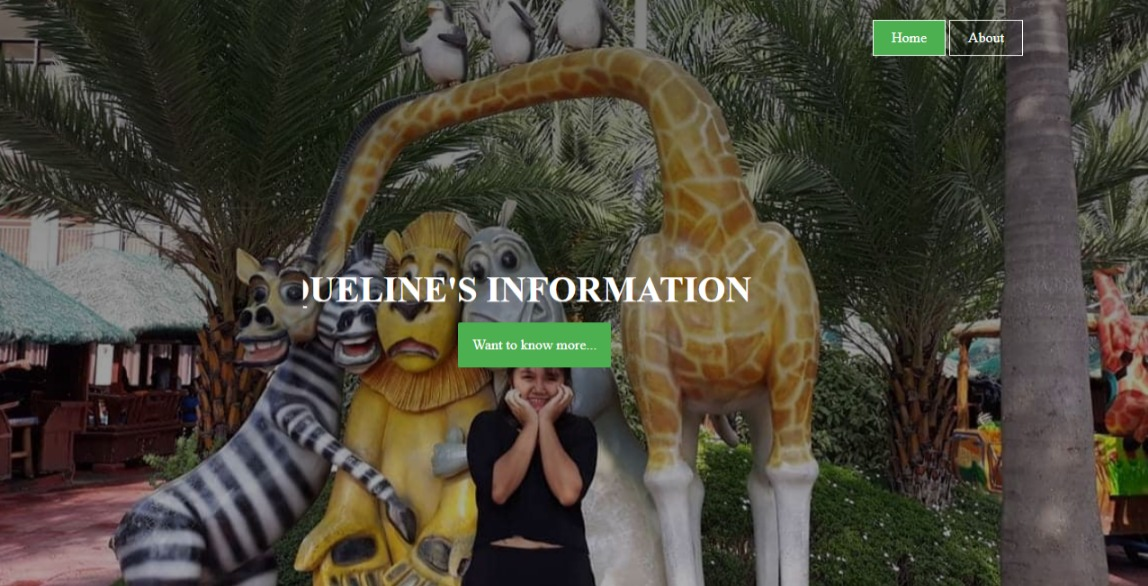
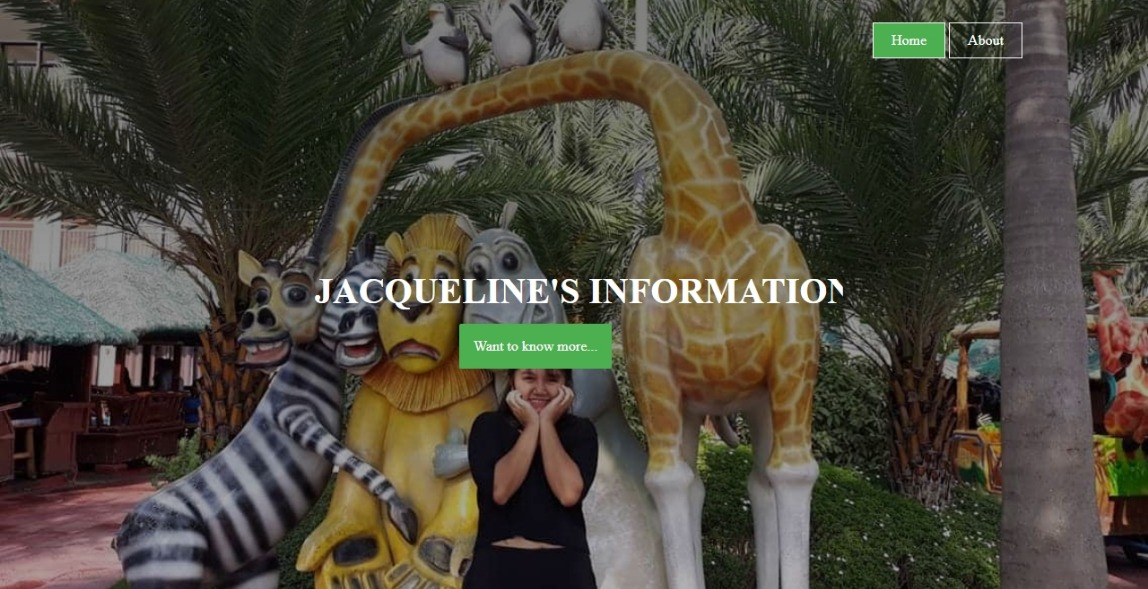
FINAL COMMIT

diff --git a/index.html b/index.html
@@ -6,28 +6,35 @@
 	<link rel="stylesheet" href="style.css">
 	<link rel="preconnect" href="https://fonts.gstatic.com">
 	<link href="https://fonts.googleapis.com/css2?family=Poppins:wght@100;200;300;400;600;700&display=swap" rel="stylesheet">
-	<link rel="stylesheet" href="https://cdn.jsdelivr.net/npm/@fortawesome/fontawesome-free@5.15.3/css/fontawesome.min.css">	
+
+	<script src="https://kit.fontawesome.com/fa968a115a.js" crossorigin="anonymous"></script>
 </head>
 <body>
+	<div class="scroll-up-btn">
+		<i
+	</div>
 	<section class="header">
 		<nav>
 			<a href="index.html"><img src="images/logo.jpg"></a>
-			<div class="nav-links">
+			<div class="nav-links" id="navLinks">
 				<i class="fas fa-times" onclick="hideMenu()"></i>
 			<ul>
 					<li><a href="index.html">HOME</a></li>
-					<li><a href="">ABOUT</a></li>
-					<li><a href="">SKILLS</a></li>
-					<li><a href="">EDUCATION</a></li>
-					<li><a href="">PROJECTS</a></li>
+					<li><a href=".about">ABOUT</a></li>
+					<li><a href="#skills">SKILLS</a></li>
+					<li><a href="#edu">EDUCATION</a></li>
+					<li><a href="#project">PROJECTS</a></li>
 				</ul>
 			</div>
 			<i class="fas fa-bars" onclick="showMenu()"></i>
+			
 		</nav>
 
 <div class="text-box">
 	<h1>Hello there!</h1>
-	<p>Welcome to My Personal Portfolio, my name is Jacqueline S. Norcio and I am a BSIT student. <br>To know more about me, feel free to explore my website.</p>
+	<p>Welcome to My Personal Portfolio, my name is Jacqueline S. Norcio and 
+		I am a BSIT student. <br>To know more about me, feel free to explore
+		 my website.</p>
 </div>	
 
 	</section>
@@ -64,14 +71,16 @@
 <!--Skills-->
 <section class="skills">
 	<div class="max-width">	
-	<!---max-width dito-->
 	<h1>Skills</h1> <!--title-->
 	<p>My creative skills and experiences</p>
 
 	<div class="skills-content">
 		<div class="column left">
-			<div class="text">Taking up Bachelor of Science in Information Technology allows me to
-				explore and learn more about our technology and how helpful those things in our generation. These are the skills and the progress I made that I was able to acquire after 2 years in college.</div>
+			<div class="text">Taking up Bachelor of Science in Information Technology 
+				allows me to explore and learn more about our technology and how 
+				helpful those things in our generation. These are the skills and 
+				the progress I made that I was able to acquire after 2 years in 
+				college.</div>
 		</div>
 	</div>
 	<div class="column right">
@@ -96,7 +105,7 @@
 		<div  class="bars">
 			<div class="skills-col">
 				<span>PYTHON</span>
-				<span>30%</span>
+				<span>20%</span>
 			</div>
 		</div>
 		<div  class="bars">
@@ -121,7 +130,7 @@
 	</div>
 </section>
 
-<!--Educatiom-->
+<!--Education-->
 <section class="edu">
 	<h1>Educational Background</h1>
 	<p>The school I attended</p>
@@ -148,27 +157,40 @@
 	</div>
 </section>
 
+<!---Projects-->
 <section class="project">
 	<h1>Projects</h1>
-	<p>These are the projects I've made and participated with.</p>
+	<h4>These are the projects I've made and participated with.</h4>
 
 	<div class="row">
 		<div class="proj-col">
 			<img src="images/1.jpeg">
-			<h3>Personal Website</h3>
+			<div class="layer">
+				<h3>Personal Website</h3>
+				<p>This website is an actual project of mine in one of my 
+					major subject back in year 2019.It is a responsive 
+					website that contains my personal information.</p>
+			</div>
 		</div>
 	</div>
 	<div class="row">
 		<div class="proj-col">
 			<img src="images/2.jpeg">
-			<h3>Zink Website</h3>
+			<div class="layer">
+				<h3>Zink Website</h3>
+				<p>Another project that I participated  with is this Zink 
+					Website. This is a web-based syestem that utilized HTML, 
+					CSS, PHP, MySQL and JavaScript. Basically this a social 
+					media website that is considered as our final project 
+					this year.</p>
+			</div>
 		</div>
 	</div>
 </section>
 
 <!---JavaScript-->
 <script>
-	var navLinks = document.getElementId("navLinks");
+	var navLinks = document.getElementById("navLinks");
 	function showMenu(){
 		navLinks.style.right = "0";
 	}

diff --git a/style.css b/style.css
@@ -39,7 +39,6 @@ nav img{
     font-family:
 }
 .nav-links ul li::after{
-    content: '';
     width: 0%;
     height: 2px;
     background: #6d2aff;
@@ -67,7 +66,7 @@ nav img{
     font-size: 15px;
     color: #fff;
 }
-nav .fa{
+nav .fas{
     display: none;
 }
 @media(max-width: 700px){
@@ -93,11 +92,11 @@ nav .fa{
         display: block;
         color: #fff;
         margin: 10px;
-        font-size: 20px;
+        font-size: 22px;
         cursor: pointer;
     }
     .nav-links ul{
-        padding: 30px;
+        padding: 50px;
     }
 }
 
@@ -147,7 +146,7 @@ h3{
     }
 }
 
-/*Skills*/
+/*------Skills section----------*/
 .skills{
     width: 80%;
     margin: auto;
@@ -218,7 +217,8 @@ font-size: 18px;
     font-size: 12px;
     }
 }
-/*education*/
+
+/*-----------education-----*/
 .edu{
     width: 80%;
     margin: auto;
@@ -264,35 +264,94 @@ h3{
     }
 }
 
-/*projects*/
+/*-----projects----*/
 .project{
-    width: 100%;
-    margin: 50px;
+    width: 80%;
+    height: 100%;
+    margin: auto;
     text-align: center;
-    padding-top: 100px;
-    object-position: center;
+    padding-top: 50px;
 }
 .proj-col{
-    flex-basis: 31%;
     border-radius: 10px;
-    margin-bottom: 3%;
+    margin-bottom: 30px;
+    position: relative;
+    overflow: hidden;
+    justify-content: space-between;
 }
 .proj-col img{
-    object-position: calc(50% - 30px);
-    width: 70%;
-    height: 70%;
-    border-radius: 10px;
+    width: 100%;
+    display: block;
+}
+.layer{
+    background: transparent;
+    height: 100%;
+    width: 100%;
+    position: absolute;
+    top: 0;
+    left: 0;
+    transition: 0.5s;
+}
+.layer:hover{
+    background: rgba(230,230,250,0.7);
+}
+.proj-col h3{
+    width: 100%;
+    font-weight: 500;
+    color: #000;
+    font-size: 26px;
+    bottom: 0;
+    left: 50%;
+    transform: translateX(-50%);
+    position: absolute;
+}
+.layer:hover h3{
+    bottom: 49%;
+    opacity: 1;
+    transition: 0.5s;
 }
 .proj-col p{
     padding: 0;
 }
-.proj-col h3{
-    margin-top: 80px;
-    margin-bottom: 15px;
-    text-align: left;   
+.proj-col p{
+    width: 100%;
+    font-weight: 700;
+    color: rgb(63, 37, 37);
+    bottom: 0;
+    left: 50%;
+    transform: translateX(-50%);
+    position: absolute;
 }
-.project .row{
-    margin-top: 5%;
-    display: flex;
-    justify-content: space-between;
+.layer:hover p{
+    bottom: 49%;
+    opacity: 1;
+    transition: 0.5s;
+}
+@media(max-width: 700px){
+    .proj-col h3{
+        width: 100%;
+        font-weight: 500;
+        color: #000;
+        font-size: 18px;
+        bottom: 0;
+        left: 50%;
+        transform: translateX(-50%);
+        position: absolute;
+    }
+    .proj-col p{
+        width: 100%;
+        font-size: 12px;
+        font-weight: 500;
+        color: rgb(63, 37, 37);
+        bottom: 0;
+        left: 50%;
+        transform: translateX(-50%);
+        position: absolute;
+    }
+    .layer:hover p{
+        bottom: 49%;
+        opacity: 1;
+        transition: 0.5s;
+    }
+    
 }
